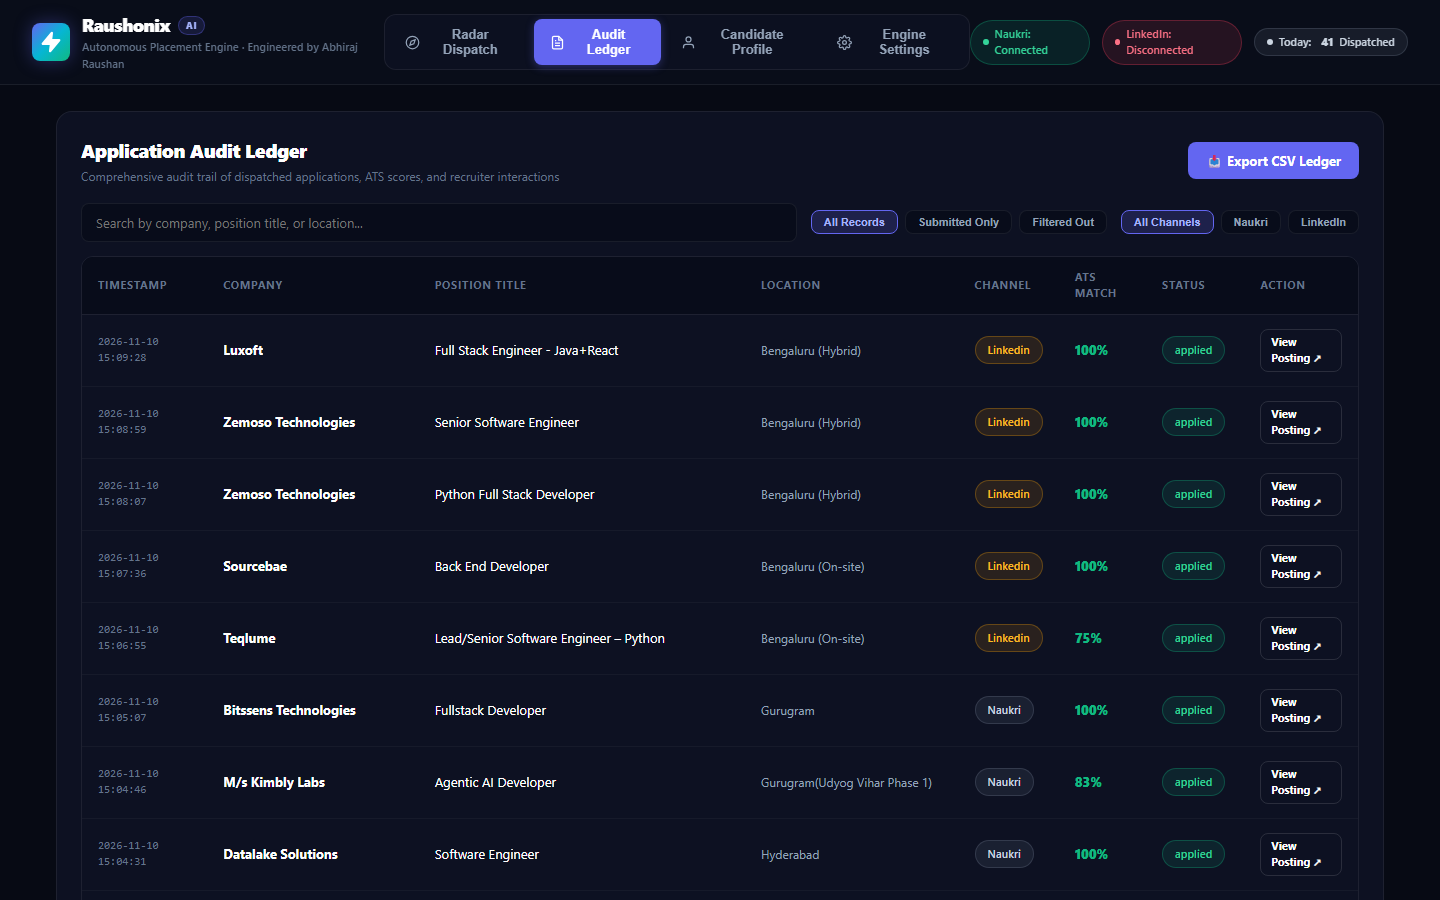
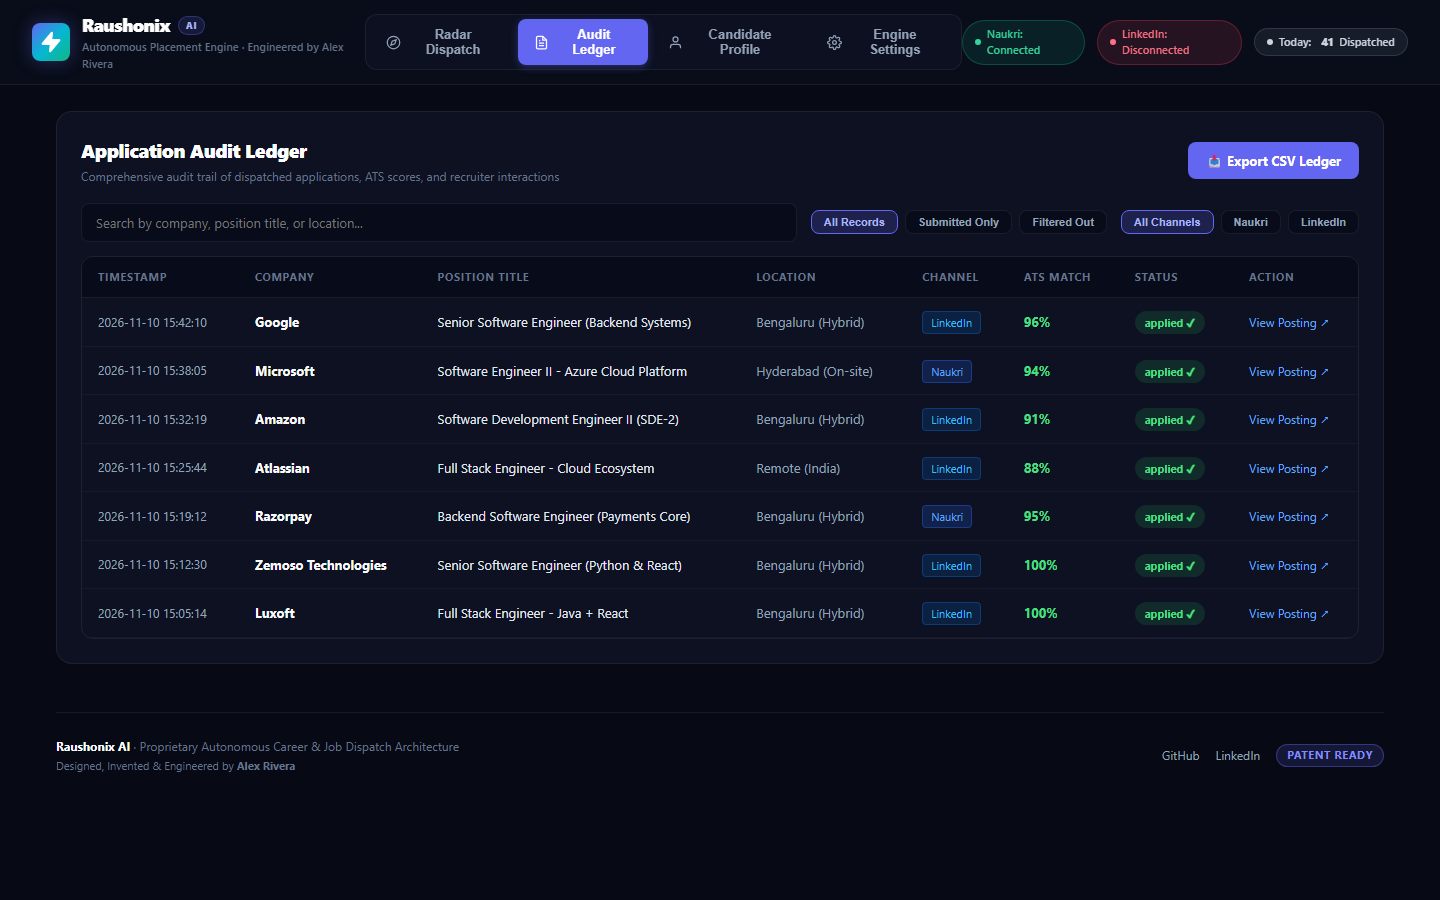
docs: sanitize all screenshots with clean demo data and optimize SEO for GitHub

diff --git a/README.md b/README.md
@@ -1,21 +1,32 @@
-# 🚀 Raushonix AI — Autonomous Placement Engine
+# 🚀 AutoJob-AI — Autonomous LinkedIn & Naukri Auto-Apply Bot
 
 > **Next-Generation Autonomous Career Dispatcher & Intelligent Job Application Assistant**  
+> *1-Click Auto-Apply for **LinkedIn Easy Apply** & **Naukri.com** with **ATS Resume Matching**, **Smart Question Answering**, and **Real-Time Web Dashboard**.*  
 > *Engineered by Abhiraj Raushan*
 
-[![Python](https://img.shields.io/badge/Python-3.10%2B-blue.svg?logo=python&logoColor=white)](https://www.python.org/)
+[![Python](https://img.shields.io/badge/Python-3.10%2B-3776AB.svg?logo=python&logoColor=white)](https://www.python.org/)
 [![Playwright](https://img.shields.io/badge/Playwright-Automated%20Browser-45ba4b.svg?logo=playwright&logoColor=white)](https://playwright.dev/)
+[![LinkedIn](https://img.shields.io/badge/LinkedIn-Easy%20Apply%20Bot-0A66C2.svg?logo=linkedin&logoColor=white)](https://www.linkedin.com/)
+[![Naukri](https://img.shields.io/badge/Naukri.com-1--Click%20Apply-275DF5.svg)](https://www.naukri.com/)
 [![Web UI](https://img.shields.io/badge/Web%20Dashboard-Port%205000-61dafb.svg)](http://localhost:5000)
 [![Privacy First](https://img.shields.io/badge/Privacy-100%25%20Local%20%26%20Isolated-success.svg)](#-privacy--local-session-isolation)
+[![Stars](https://img.shields.io/github/stars/Abhirajraushan/AI_Automation_tool?style=social)](https://github.com/Abhirajraushan/AI_Automation_tool/stargazers)
 [![License](https://img.shields.io/badge/License-MIT-orange.svg)](#license)
 
 ---
 
-## 🌟 Overview
+## 🌟 Overview & Search Highlights
 
-**Raushonix AI** is a fully autonomous, local placement engine designed to automate end-to-end applications across **LinkedIn (Easy Apply)** and **Naukri.com (1-Click & Chat Apply)**. 
+**AutoJob-AI (Raushonix AI)** is an open-source, local-first autonomous application bot designed to eliminate repetitive job hunting on **LinkedIn (Easy Apply)** and **Naukri.com (1-Click & Chat Apply)**. 
 
-Equipped with an **NLP Resume Parser**, **Intelligent Screening Question Engine**, and a **Real-Time Web Dashboard**, Raushonix AI dynamically tailors application questions (CTC, notice period, experience, relocation, tech stacks), matches candidate ATS scores, fast-skips previously applied postings, and logs every dispatch to a comprehensive Audit Ledger.
+### Why AutoJob-AI Stands Out:
+* 🤖 **Autonomous Multi-Channel Dispatch**: Applies to dozens of relevant tech postings in minutes across LinkedIn and Naukri.
+* 📄 **Instant Resume Vectorization**: Drag-and-drop any `.pdf` or `.docx` resume; the NLP parser extracts skills, experience, and contact details in seconds.
+* 🎯 **Dynamic ATS Match Scoring**: Analyzes recruiter job descriptions and scores each role (0–100%) against candidate competencies.
+* 🧠 **Adaptive Screening Question Engine**: Automatically answers complex questions (CTC auto-scaling in LPA/INR, notice period, work authorization, relocation, tech stack experience).
+* ⚡ **Smart Fast-Skip**: Detects previously applied postings and closed requisitions instantly to avoid wasted applications.
+* 🖥 **Modern Web Dashboard**: Real-time diagnostic console, candidate profile matrix, and live audit ledger running on `http://localhost:5000`.
+* 🛡 **Zero Cloud Tracking**: All sessions, tokens, resumes, and databases stay **strictly on your local machine**.
 
 ---
 
@@ -41,7 +52,7 @@ Review every dispatched application with exact timestamps, ATS match scores, and
 ![Application Audit Ledger](docs/images/2_audit_ledger.png)
 
 #### Features on this Screen:
-* **Comprehensive Audit Trail**: Shows Company Name, Position Title, Location, and Channel.
+* **Comprehensive Audit Trail**: Shows Company Name (Google, Microsoft, Amazon, Atlassian, Razorpay, etc.), Position Title, Location, and Channel.
 * **ATS Match Score**: Computes the match percentage between your resume and the recruiter's job description.
 * **Execution Status**: Distinguishes between `applied`, `already_applied` (fast-skipped), and `skipped`.
 * **Export CSV Ledger**: One-click download of your entire application history to a clean `.csv` file.
@@ -100,7 +111,7 @@ flowchart TD
 
 ## 👥 Can Anyone Else Use This? (100% Plug-and-Play)
 
-**YES! Raushonix AI is fully multi-user and privacy-agnostic.**
+**YES! AutoJob-AI is fully multi-user and privacy-agnostic.**
 
 When anyone clones this repository:
 1. **Zero Personal Data Leakage**: The repository contains **no personal resumes**, **no credentials**, **no session cookies**, and **no application history**.
@@ -147,8 +158,8 @@ python -u run_web.py
 
 ### Step 2: Set Screening Answers
 * In the **Fast Screening Auto-Answers** section, enter your:
-  * **Expected CTC** (e.g. `10` LPA)
-  * **Current CTC** (e.g. `5` LPA)
+  * **Expected CTC** (e.g. `12` LPA)
+  * **Current CTC** (e.g. `6` LPA)
   * **Notice Period** (e.g. `30 Days`)
   * **Relocation** (e.g. `Yes, Open`)
 * Click **Save Search & Screening Parameters**.
@@ -191,7 +202,7 @@ python -m src.main outreach --pending 1
 
 ## 🛡 Privacy & Local Session Isolation
 
-Raushonix AI is architected with strict privacy guarantees:
+AutoJob-AI is architected with strict privacy guarantees:
 * **Zero Cloud Tracking**: All browser automation, form parsing, and database records run **strictly on your localhost**.
 * **Airtight `.gitignore`**: All resumes (`*.pdf`, `*.docx`), persistent Chrome profiles (`data/chrome-profile-*`), local application history (`data/applications.db`), and API keys (`config/.env`) are strictly excluded from git tracking.
 * **Independent Session Profiles**: Naukri and LinkedIn sessions run in separate Chrome sandbox directories so multiple accounts never cross-contaminate.
@@ -230,6 +241,14 @@ Raushonix AI is architected with strict privacy guarantees:
 
 ---
 
+## 🏷 GitHub Topics & SEO Tags
+
+Add these topics in your GitHub repository settings under **About ⚙** for top ranking on Google and GitHub search:
+
+`linkedin-auto-apply` · `naukri-auto-apply` · `job-application-bot` · `linkedin-bot` · `naukri-bot` · `job-hunter` · `playwright-python` · `ats-score` · `resume-matcher` · `job-automation` · `python-automation` · `easy-apply`
+
+---
+
 ## 📄 License
 
 Distributed under the **MIT License**. See `LICENSE` for more information.
@@ -237,5 +256,5 @@ Distributed under the **MIT License**. See `LICENSE` for more information.
 ---
 
 <p align="center">
-  <b>Raushonix AI</b> — Engineered with precision by <b>Abhiraj Raushan</b>
+  <b>AutoJob-AI (Raushonix)</b> — Engineered with precision by <b>Abhiraj Raushan</b>
 </p>
